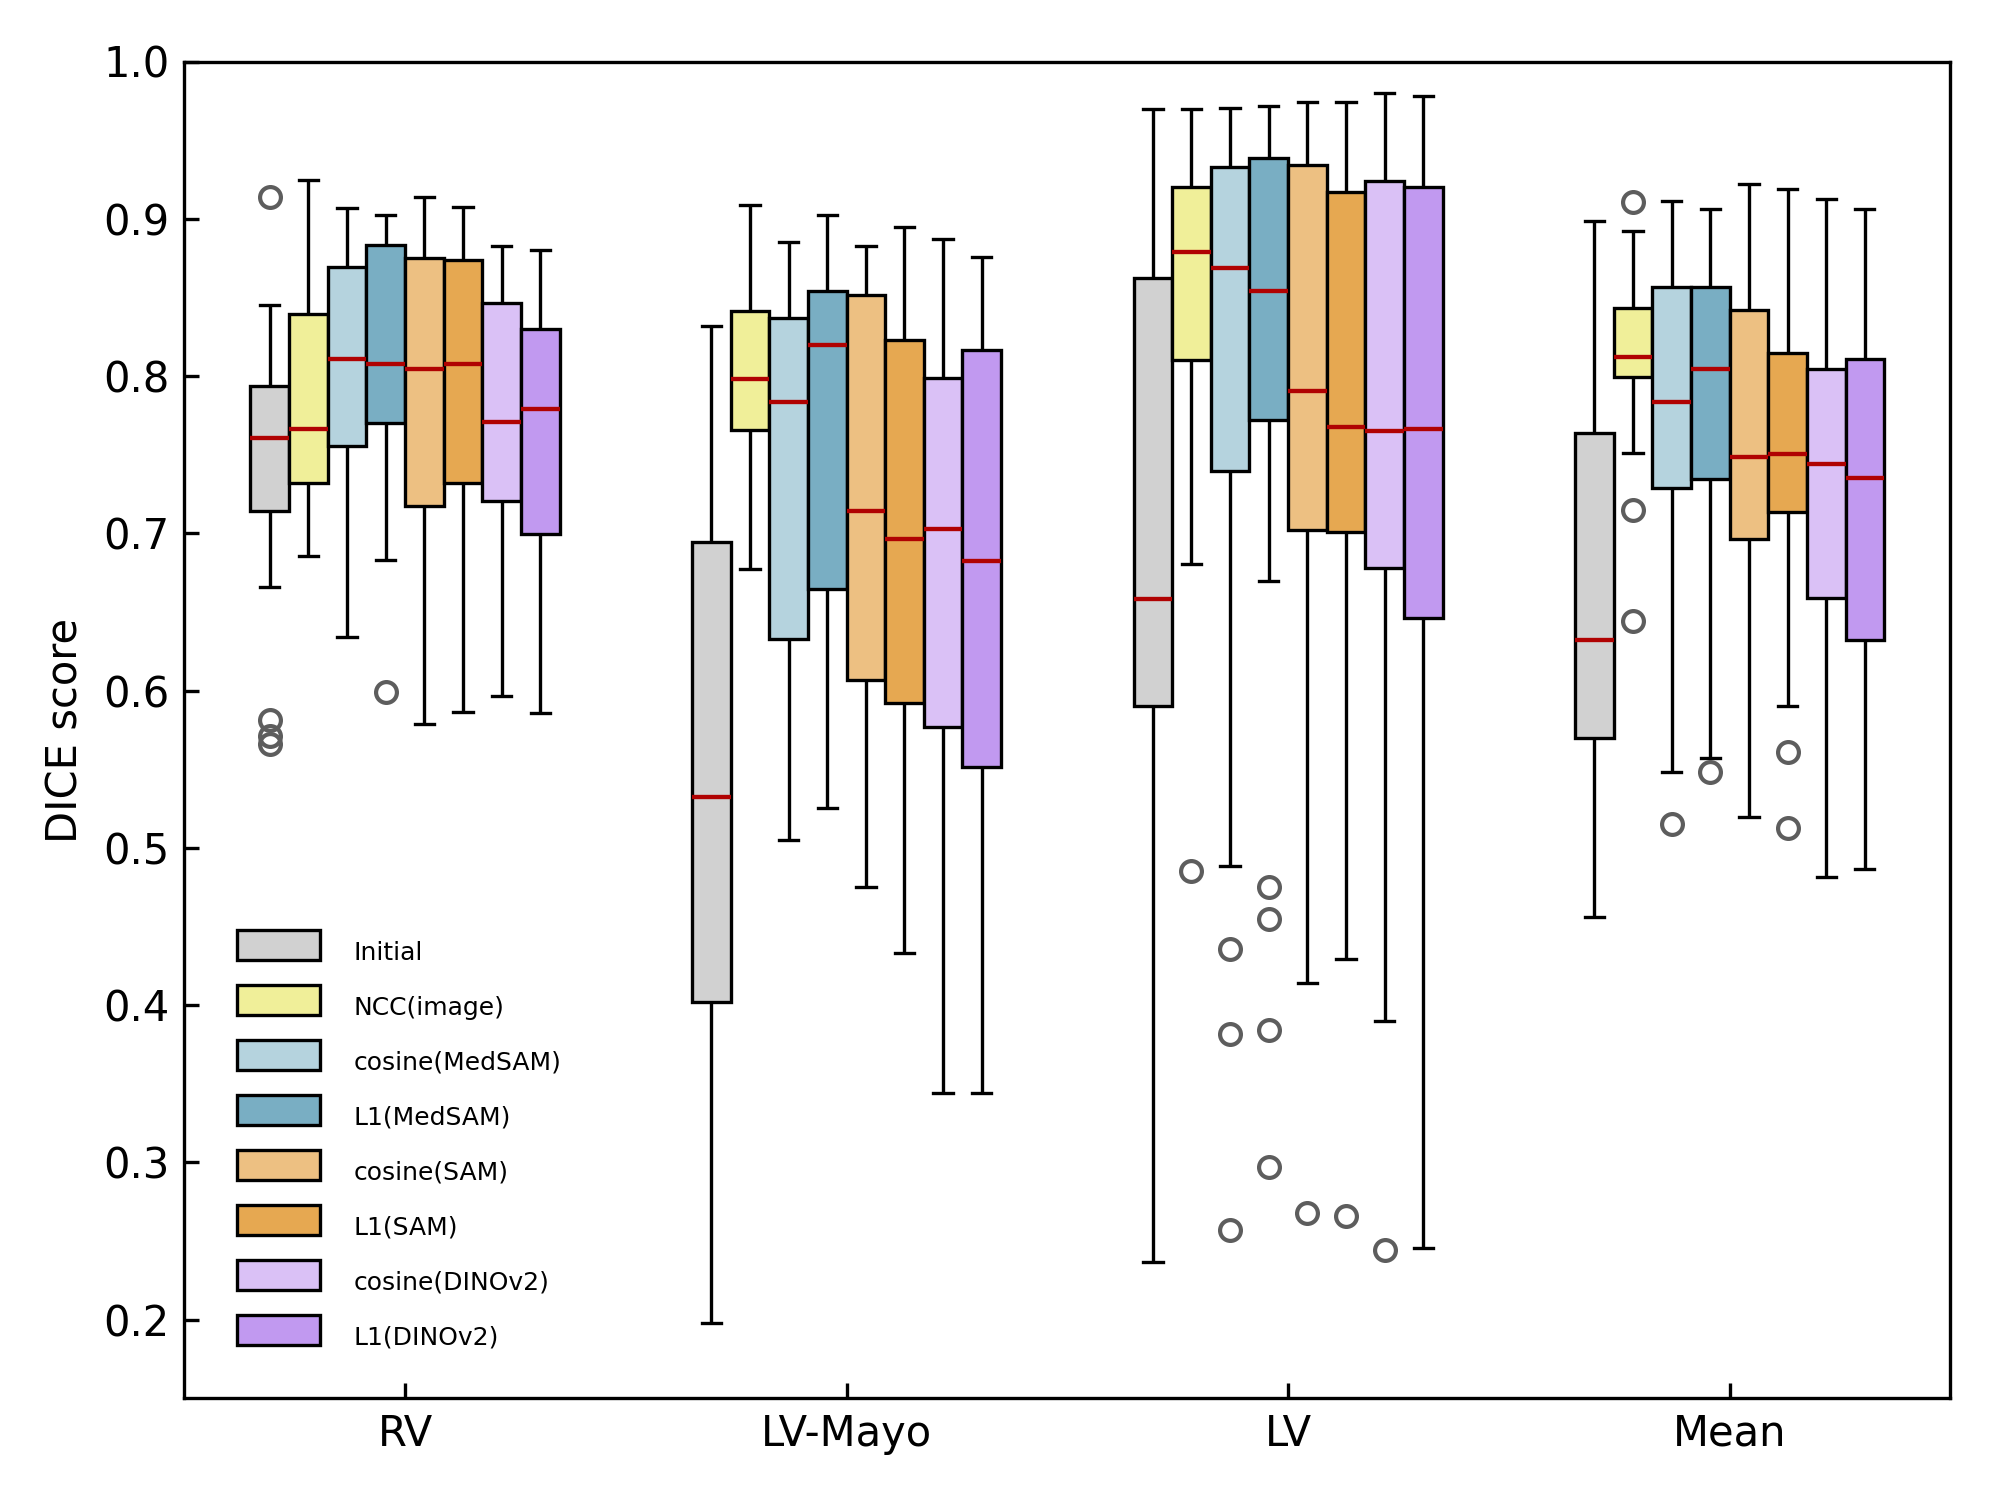
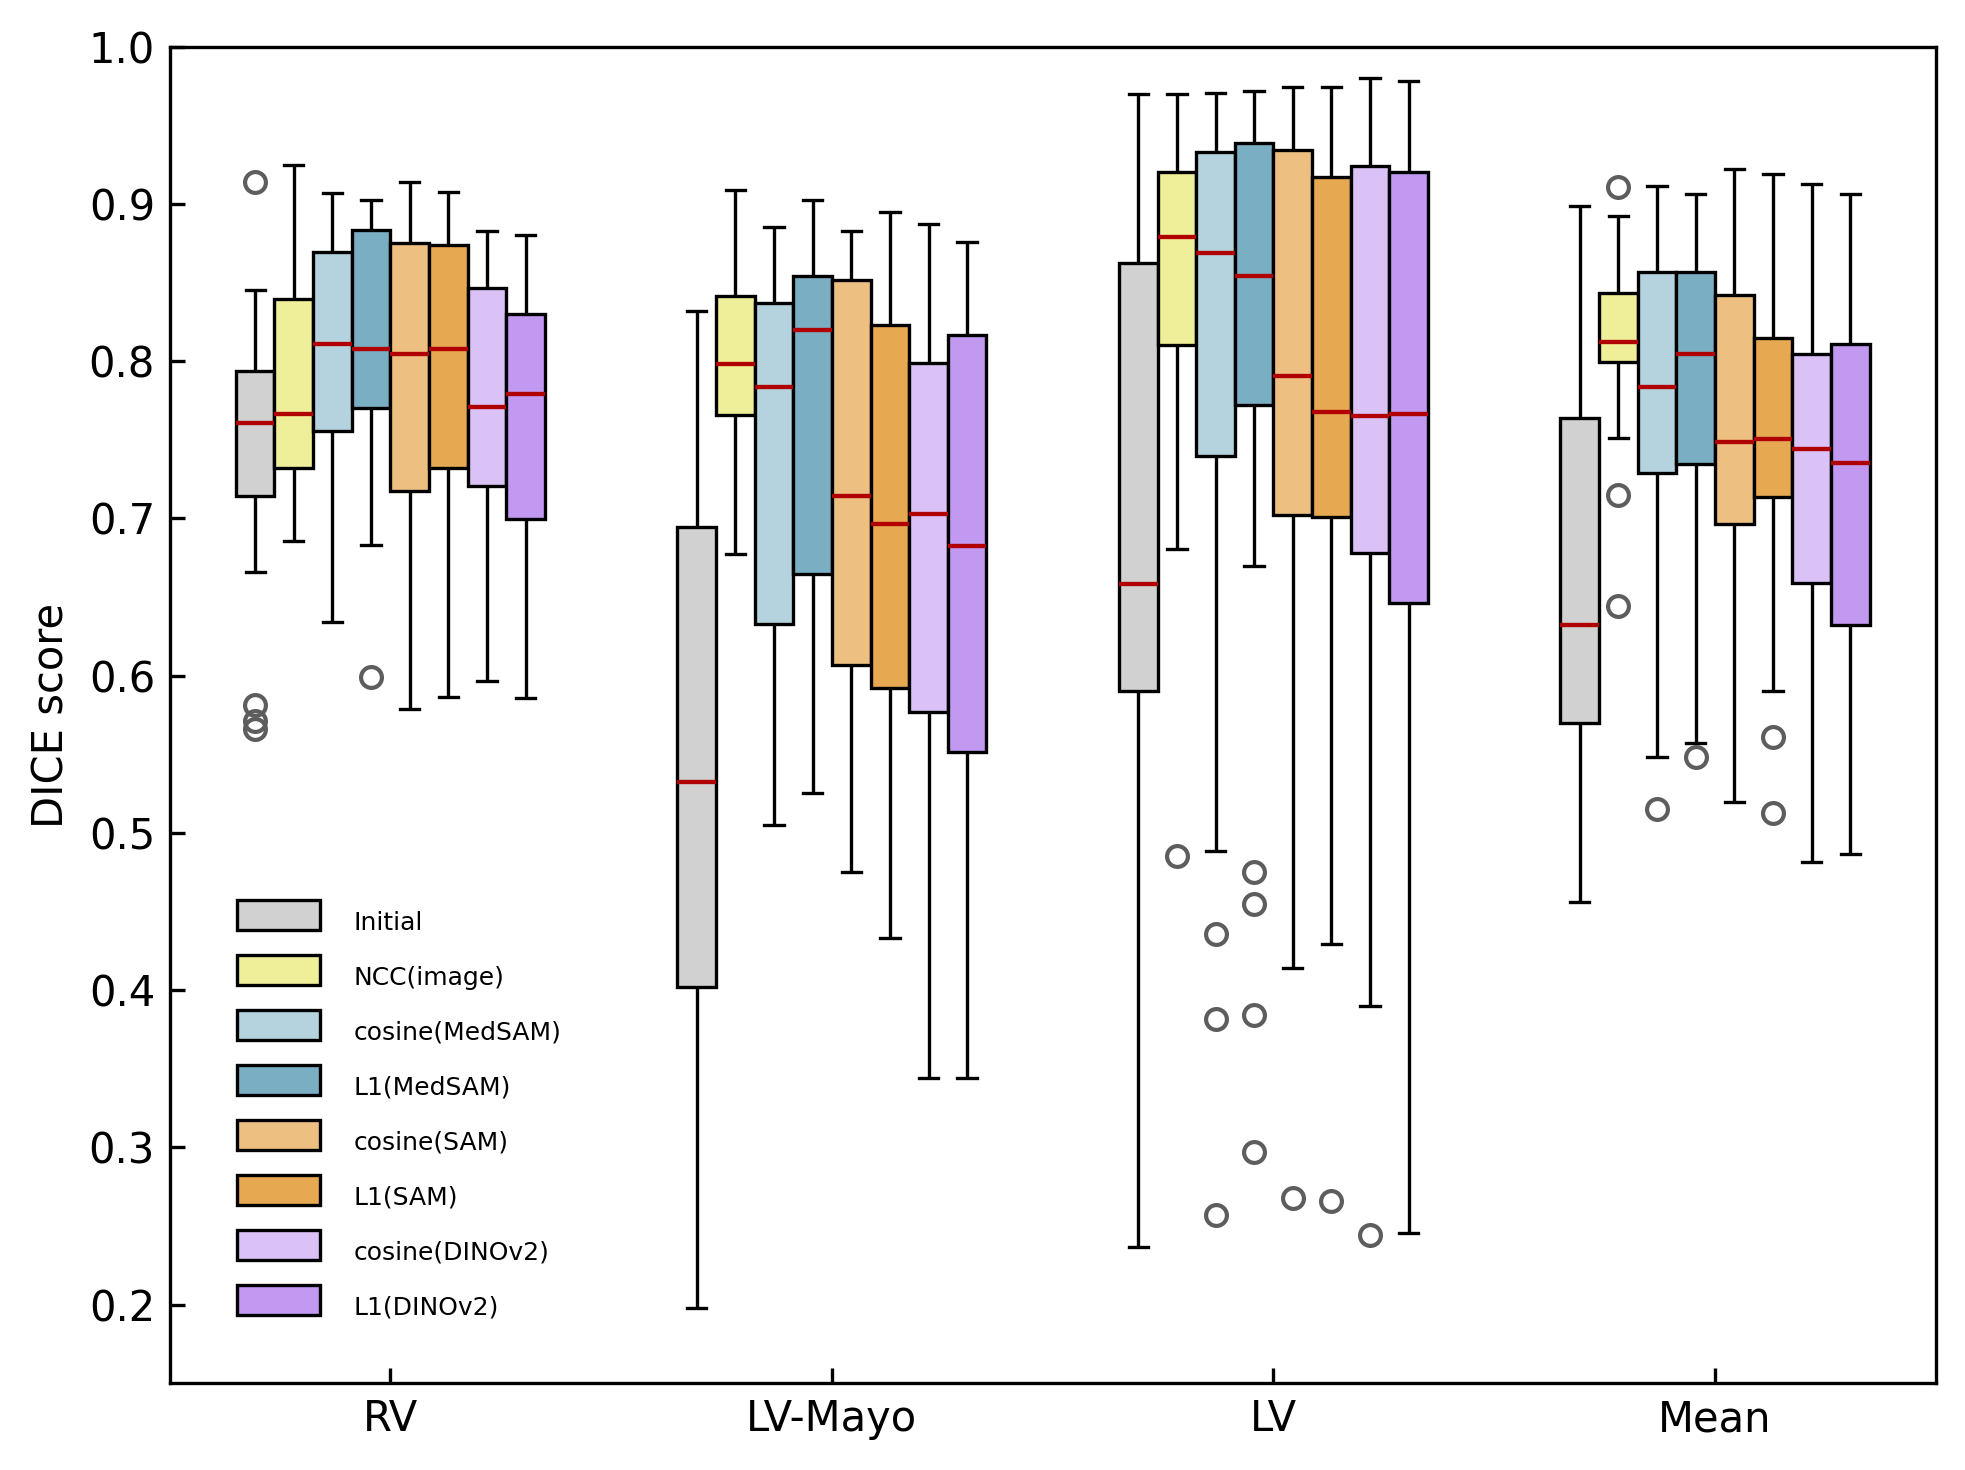
bbox inches tight

diff --git a/examples/visualisation_scripts/dice_boxplots/new_boxplots.py b/examples/visualisation_scripts/dice_boxplots/new_boxplots.py
@@ -144,7 +144,8 @@ def plot_boxplots(file_paths, custom_labels, line_width=2, palette='Set3'):
     plt.show()
     plt.savefig(
         'registrationbaselines/examples/visualisation_scripts/dice_boxplots/boxplots.png',
-        dpi=300)
+        dpi=300,
+        bbox_inches='tight')
 
     x = 0
 
